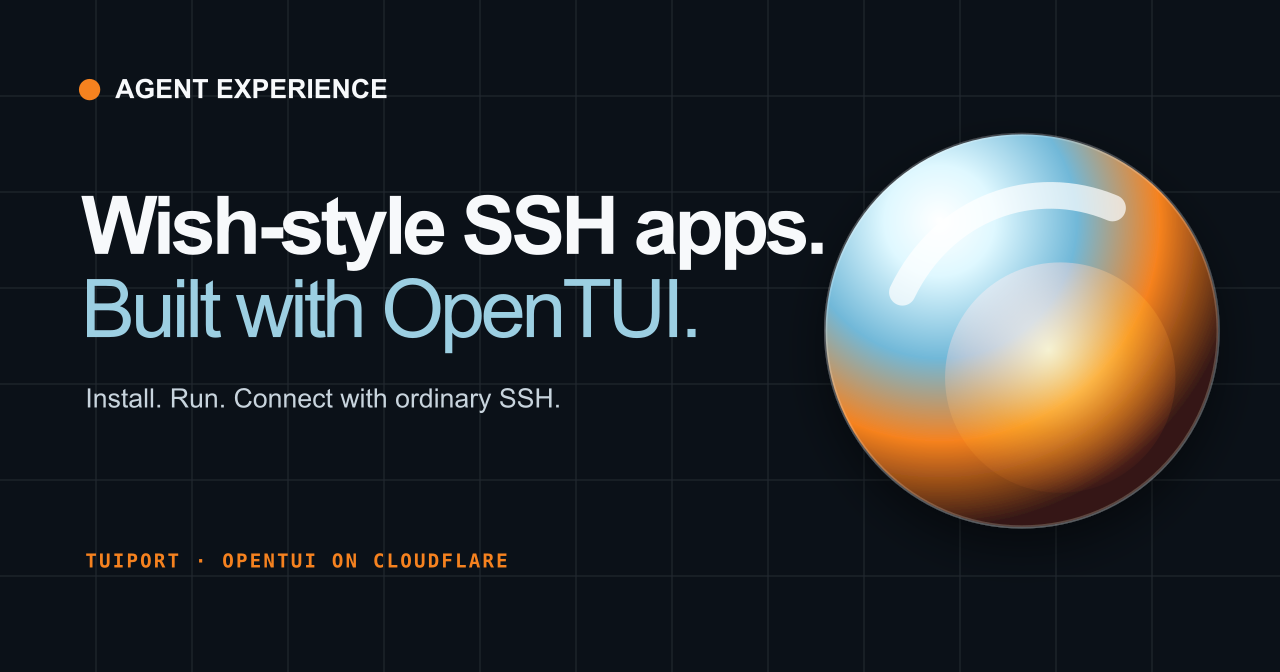
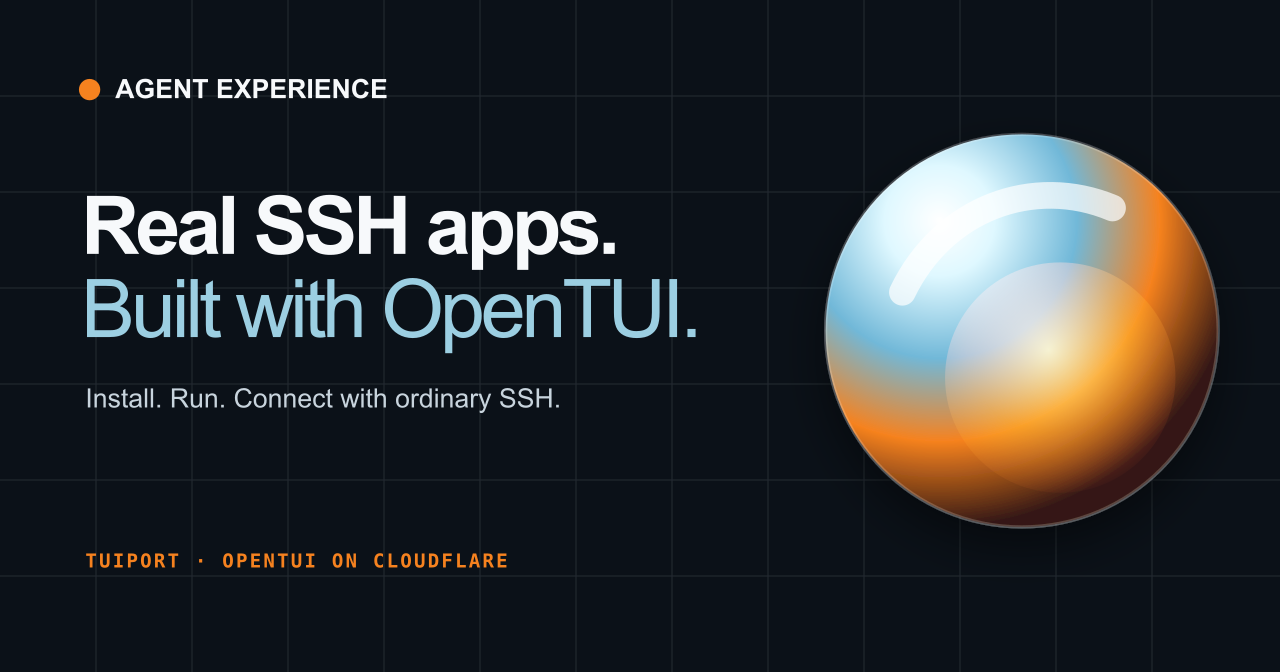
Broaden headline: 'Real SSH apps.' instead of 'Wish-style'
The Wish reference was faithful to the original brief but only lands for
people who already know Charm's Wish; as public headline copy it leans on
borrowed recognition and positions the project as a derivative. Swap to a
self-describing line across hero, SEO description, llms.txt, manifest, and
the regenerated OG/social and screenshot images.

Changed region(s): [[0.0625, 0.2812, 0.6562, 0.4062]]

diff --git a/scripts/generate-assets.ts b/scripts/generate-assets.ts
@@ -43,7 +43,7 @@ const socialSvg = `<svg xmlns="http://www.w3.org/2000/svg" width="1200" height="
   <circle cx="994" cy="354" r="108" fill="url(#core)" style="mix-blend-mode:screen"/>
   <path d="M846 274c38-79 123-110 197-79" fill="none" stroke="#fff" stroke-opacity=".7" stroke-width="25" stroke-linecap="round"/>
   <circle cx="84" cy="84" r="10" fill="#f6821f"/><text x="108" y="92" fill="#f7f9fb" font-family="Arial,sans-serif" font-size="25" font-weight="700">AGENT EXPERIENCE</text>
-  <text x="76" y="238" fill="#f7f9fb" font-family="Arial,sans-serif" font-size="76" font-weight="750" letter-spacing="-4">Wish-style SSH apps.</text>
+  <text x="76" y="238" fill="#f7f9fb" font-family="Arial,sans-serif" font-size="76" font-weight="750" letter-spacing="-4">Real SSH apps.</text>
   <text x="76" y="316" fill="#9ccfe2" font-family="Arial,sans-serif" font-size="76" font-weight="500" letter-spacing="-4">Built with OpenTUI.</text>
   <text x="80" y="382" fill="#c8d4dd" font-family="Arial,sans-serif" font-size="25">Install. Run. Connect with ordinary SSH.</text>
   <text x="80" y="532" fill="#f6821f" font-family="monospace" font-size="18" font-weight="600" letter-spacing="2">TUIPORT · OPENTUI ON CLOUDFLARE</text>
@@ -52,7 +52,7 @@ const socialSvg = `<svg xmlns="http://www.w3.org/2000/svg" width="1200" height="
 const mobileScreenshot = `<svg xmlns="http://www.w3.org/2000/svg" width="750" height="1334" viewBox="0 0 750 1334">${orb}
   <rect width="750" height="1334" fill="#0b1118"/><circle cx="590" cy="255" r="220" fill="url(#orb)" opacity=".38"/>
   <text x="50" y="78" fill="#f7f9fb" font-family="Arial,sans-serif" font-size="26" font-weight="700">AGENT EXPERIENCE</text>
-  <text x="50" y="230" fill="#f7f9fb" font-family="Arial,sans-serif" font-size="60" font-weight="750">Wish-style SSH apps.</text><text x="50" y="298" fill="#9ccfe2" font-family="Arial,sans-serif" font-size="60">Built with OpenTUI.</text>
+  <text x="50" y="230" fill="#f7f9fb" font-family="Arial,sans-serif" font-size="60" font-weight="750">Real SSH apps.</text><text x="50" y="298" fill="#9ccfe2" font-family="Arial,sans-serif" font-size="60">Built with OpenTUI.</text>
   <rect x="38" y="412" width="674" height="570" rx="14" fill="#080d13" stroke="#4f6273"/>
   <text x="72" y="472" fill="#63d5a2" font-family="monospace" font-size="18">● LIVE SESSION</text>
   <text x="72" y="560" fill="#f6821f" font-family="monospace" font-size="24">$ ssh your-hostname</text>

diff --git a/src/site.svelte b/src/site.svelte
@@ -186,7 +186,7 @@
       <div class="hero-glow" aria-hidden="true"></div>
       <div class="hero-copy">
         <div class="badge"><i></i> OpenTUI · SSH · Cloudflare</div>
-        <h1>Wish-style SSH apps.<br /><em>Built with OpenTUI.</em></h1>
+        <h1>Real SSH apps.<br /><em>Built with OpenTUI.</em></h1>
         <p class="lede">Run an OpenTUI application as an SSH server in a Cloudflare Container. Connect from any terminal with ordinary <code>ssh</code>.</p>
         <div class="actions">
           <a class="primary" href="https://deploy.workers.cloudflare.com/?url=https://github.com/acoyfellow/tuiport">Deploy to Cloudflare <span>↘</span></a>

diff --git a/src/worker.ts b/src/worker.ts
@@ -29,7 +29,7 @@ const pages = {
     section: 'home',
     title: 'Tuiport — OpenTUI SSH Apps on Cloudflare',
     description:
-      'Build Wish-style SSH applications with OpenTUI, run the same container locally or on Cloudflare, and connect from any terminal with ordinary SSH.',
+      'Build real SSH apps with OpenTUI, run the same container locally or on Cloudflare, and connect from any terminal with ordinary SSH.',
     eyebrow: 'OpenTUI · SSH · Cloudflare Containers',
   },
   '/tutorial': {
